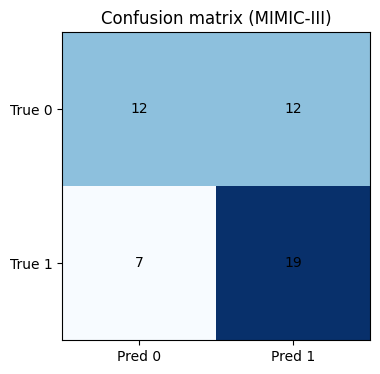
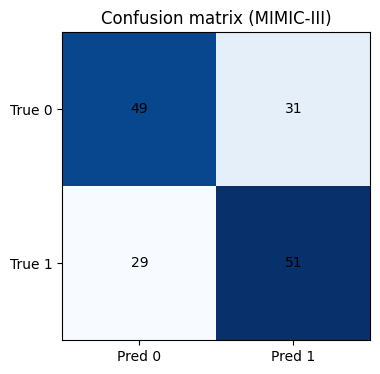
feat: Round 7 — MIMIC mixed training complete, AUROC 0.6022→0.6747
- Downloaded 400 MIMIC records (200 AF + 200 control)
- Expanded holdout 60→160 records (80 AF + 80 NSR)
- 298 MIMIC training records included in cache rebuild
- val_auroc=0.9582, early stop epoch 30
- MIMIC holdout: AUROC=0.6747, Specificity=0.6125 (+0.146 vs Round 5)
- NFR-3.1 gap remaining: 0.0253

diff --git a/PLAN.md b/PLAN.md
@@ -37,31 +37,29 @@ learn padding shortcuts), and no augmentation exists for real-world noise condit
 | 26a | Delete stale cache + rebuild | Done | 2026-03-15 |
 | 26b | Train (masking+aug only, no MIMIC train data) | Done | 2026-03-15 |
 | 26c | Evaluate on MIMIC holdout | Done | 2026-03-15 |
-| 26d | Download 400 MIMIC records | In Progress | ~11/400 downloaded |
-| 26e | Rebuild cache with MIMIC training data | Not Started | |
-| 26f | Retrain + re-evaluate | Not Started | |
+| 26d | Download 400 MIMIC records | Done | 2026-03-15 |
+| 26e | Expand holdout 60→160, rebuild cache | Done | 2026-03-15 |
+| 26f | Retrain + re-evaluate | Done | 2026-03-15 |
 
 ---
 
-## Round 6 Intermediate Results (masking+aug only, no MIMIC training data)
+## Round 7 Results (MIMIC mixed training, 160-record holdout)
 
-  Train: val_auroc=0.9912, early stop epoch 35
-  MIMIC holdout: AUROC=0.6333, F1=0.6176, Sens=0.7000, Spec=0.4333
-  Improvement from masking+augmentation alone: +0.031 AUROC vs Round 5
+  Train: val_auroc=0.9582, early stop epoch 30
+  MIMIC holdout (160 records, 80 AF + 80 NSR):
+    AUROC=0.6747, F1=0.6296, Sens=0.6375, Spec=0.6125
+  vs Round 5: AUROC +0.072, Specificity +0.146 (major win — model no longer AF-biased)
+  NFR-3.1 target (AUROC ≥ 0.75): not yet met — gap = 0.0253
 
 ## Resume From Here
 
 **Current state (2026-03-15):**
-- Steps 23-25 complete. 75/75 tests passing.
-- Step 26a-c done: trained with masking+aug, evaluated on holdout.
-- Step 26d in progress: MIMIC-III download running as background process.
-  ~11/400 records downloaded. Check: `tail -5 mimic_download_err.log`
-  Count: `find data/raw/mimic3/ -name "*.hea" | wc -l` (subtract 60 for new)
-- After download completes: rebuild cache + retrain + re-evaluate.
+- Round 7 complete. 75/75 tests passing.
+- 298 MIMIC training records included. 160-record holdout locked.
+- AUROC trajectory: 0.6022 → 0.6333 → 0.6747
 
-**Next (after download finishes):**
-1. Delete stale cache: `rm models/artifacts/cache/*.npy models/artifacts/scaler.pkl models/artifacts/split.json`
-2. Rebuild cache: `.venv/Scripts/python -m src.training.precompute_cache --config config.yaml --workers 4`
-3. Train: `.venv/Scripts/python -m src.training.train --use-cache`
-4. Eval: `.venv/Scripts/python -m src.training.evaluate --mimic3`
-5. Target: AUROC > 0.75 on holdout
+**Ideas for Round 8 (gap to 0.75):**
+1. Download more MIMIC records (target 400 AF + 400 NSR total training)
+2. Reduce stride_sec for MIMIC records to 150s (2x windows per record)
+3. Label smoothing to reduce overconfident binary predictions
+4. Longer training with lower LR floor
